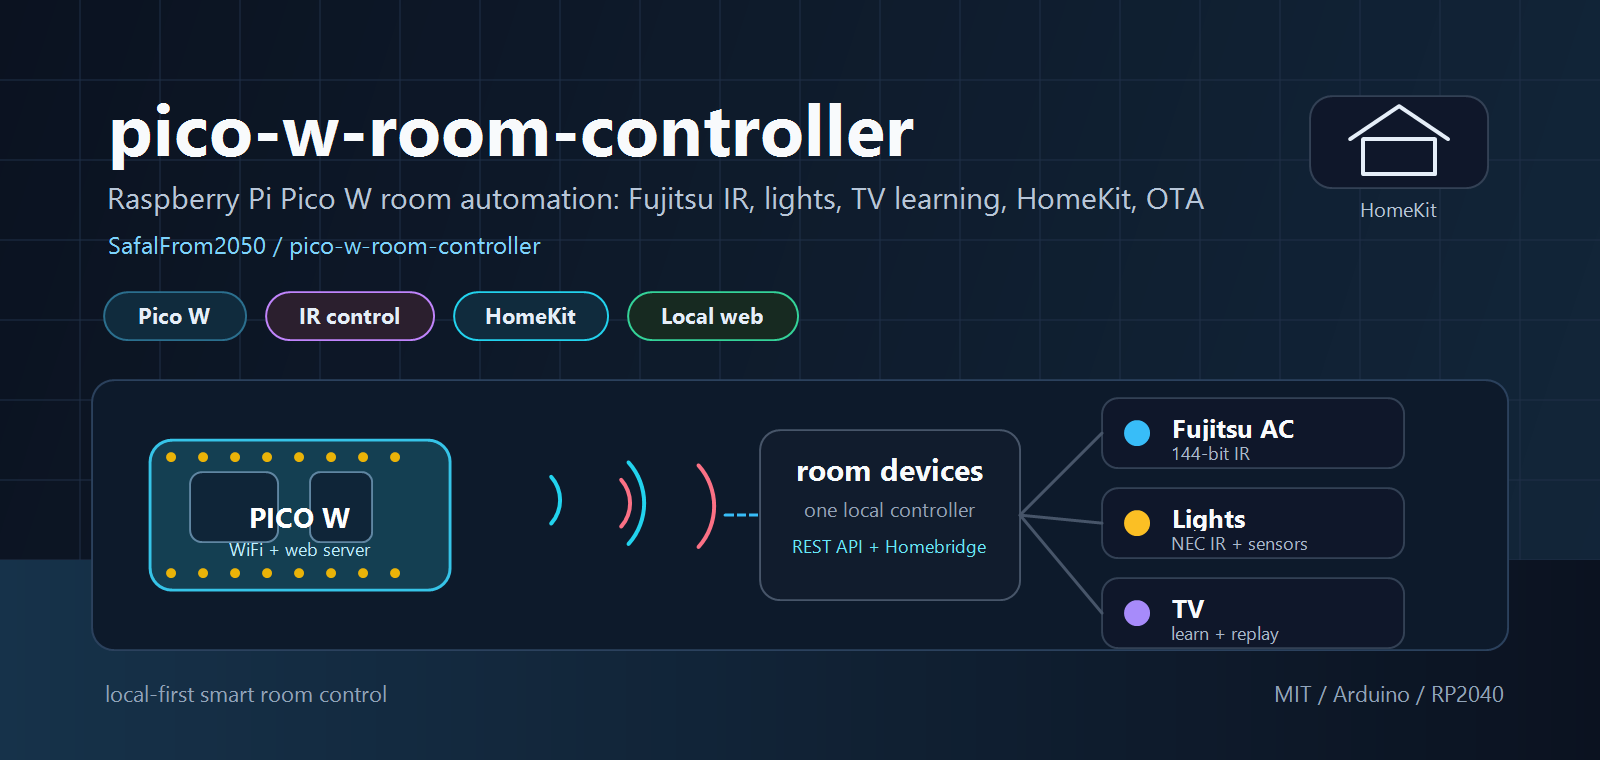
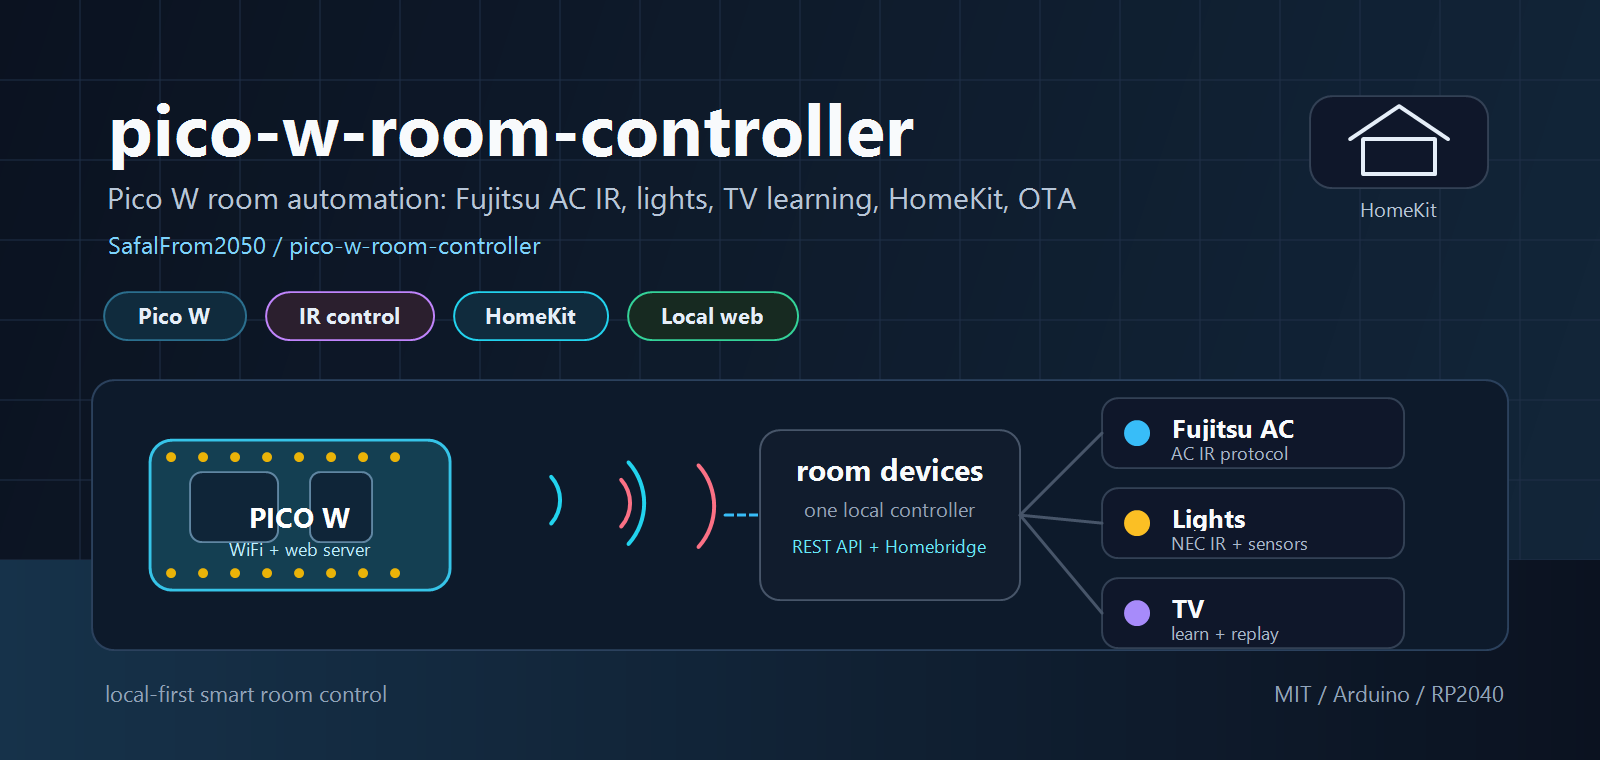
docs: avoid fixed Fujitsu IR bit-length claim

Changed region(s): [[0.0625, 0.2421, 0.75, 0.3026], [0.7188, 0.575, 0.8125, 0.6053]]

diff --git a/README.md b/README.md
@@ -1,5 +1,5 @@
 <p align="center">
-  <img src="docs/images/banner-clean.png" alt="pico-w-room-controller — Smart Fujitsu IR Blaster with Apple HomeKit, TV Learning, and Light Control" width="100%"/>
+  <img src="docs/images/banner-clean.png" alt="pico-w-room-controller — Smart Fujitsu AC IR controller with Apple HomeKit, TV Learning, and Light Control" width="100%"/>
 </p>
 
 <h1 align="center">pico-w-room-controller</h1>
@@ -10,7 +10,7 @@
 
 <p align="center">
   <img src="https://img.shields.io/badge/Platform-RP2040_(Pico_W)-A2235E?style=for-the-badge&logo=raspberrypi&logoColor=white" alt="Raspberry Pi Pico W"/>
-  <img src="https://img.shields.io/badge/Protocol-Fujitsu_IR_(144--bit)-E4405F?style=for-the-badge&logo=infrared&logoColor=white" alt="Fujitsu IR Protocol"/>
+  <img src="https://img.shields.io/badge/Protocol-Fujitsu_AC_IR-E4405F?style=for-the-badge&logo=infrared&logoColor=white" alt="Fujitsu AC IR Protocol"/>
   <img src="https://img.shields.io/badge/HomeKit-via_Homebridge-000000?style=for-the-badge&logo=apple&logoColor=white" alt="Apple HomeKit Integration"/>
   <img src="https://img.shields.io/badge/IDE-Arduino-00979D?style=for-the-badge&logo=arduino&logoColor=white" alt="Arduino IDE"/>
 </p>
@@ -28,13 +28,13 @@
 
 ## 📖 Overview
 
-**pico-w-room-controller** turns a **$6 Raspberry Pi Pico W** into a multi-device smart room controller. Originally built to control a **Fujitsu split-system air conditioner** via a **reverse-engineered 144-bit IR protocol**, the project has grown into a full room automation hub that also controls ceiling lights, learns TV remote codes, and serves a real-time web dashboard — all accessible through **Apple HomeKit** via Homebridge.
+**pico-w-room-controller** turns a **$6 Raspberry Pi Pico W** into a multi-device smart room controller. Originally built to control a **Fujitsu split-system air conditioner** via a **reverse-engineered Fujitsu AC IR protocol**, the project has grown into a full room automation hub that also controls ceiling lights, learns TV remote codes, and serves a real-time web dashboard — all accessible through **Apple HomeKit** via Homebridge.
 
 ### ✨ What It Does
 
 | Capability | Description |
 |-----------|-------------|
-| **Fujitsu AC Control** | Generates bit-perfect 144-bit IR commands (cool, heat, auto, power off, powerful mode) using a fully reverse-engineered protocol |
+| **Fujitsu AC Control** | Generates bit-perfect Fujitsu AC IR commands (cool, heat, auto, power off, powerful mode) using a reverse-engineered protocol |
 | **Ceiling Light Control** | Toggles normal and night modes via NEC IR protocol with photoresistor-based state detection |
 | **TV Remote Learning** | Captures IR codes from any TV remote (NEC, Samsung, Sony, RC5/6, PulseDistance) via an IR receiver, stores them in EEPROM, and replays on demand |
 | **Web Dashboard** | Glassmorphism dark-mode dashboard served directly from the Pico W for controlling all devices from a browser |
@@ -108,17 +108,17 @@ sequenceDiagram
     User->>HB: "Set AC to 22°C, cooling"
     HB->>Pico: GET /targetTemperature?value=22
     HB->>Pico: GET /targetHeatingCoolingState?value=2
-    Pico->>Pico: Build 18-byte Fujitsu IR frame
+    Pico->>Pico: Build Fujitsu AC IR frame
     Pico->>Pico: Calculate checksum (byte 17)
     Pico->>Pico: Encode to raw mark/space timings
-    Pico->>AC: 🔴 38kHz modulated IR (144 bits)
+    Pico->>AC: 🔴 38kHz modulated IR command
     Pico-->>HB: 200 OK
     HB-->>User: ✅ AC set to 22°C cooling
 ```
 
 ---
 
-## 🔬 Reverse-Engineered Fujitsu IR Protocol
+## 🔬 Reverse-Engineered Fujitsu AC IR Protocol
 
 A key technical achievement of this project is the **complete reverse-engineering of the Fujitsu AR-RFL5J remote protocol**. The protocol was decoded by capturing raw IR timings from the original remote and analyzing the bit patterns.
 
@@ -128,7 +128,7 @@ A key technical achievement of this project is the **complete reverse-engineerin
 
 | Feature | Short Code (OFF) | Long Code (ON/Settings) |
 |---------|:-----------------:|:-----------------------:|
-| **Length** | 7 bytes (56 bits) | 18 bytes (144 bits) |
+| **Length** | 7 bytes | 18 bytes |
 | **Carrier** | 38 kHz | 38 kHz |
 | **Bit Order** | LSB first | LSB first |
 | **Header** | 3324µs mark + 1574µs space | 3324µs mark + 1574µs space |
@@ -173,7 +173,7 @@ byte8 = ((temp_celsius - 8) / 2) << 4 | 0x01
 mindmap
   root((PicoW Room\nController))
     Fujitsu AC Control
-      Reverse-engineered 144-bit protocol
+      Reverse-engineered Fujitsu AC IR protocol
       Dynamic command generation
       Cool / Heat / Auto modes
       Powerful mode
@@ -499,7 +499,7 @@ The IR receiver is stopped during transmission (`IrReceiver.stop()`) and restart
 
 ### IR Transmission Strategy
 
-The RP2040 requires special handling for long IR signals. Direct pulse-distance encoding fails for 144-bit frames due to timing jitter. This project uses a **pre-built raw timing array** approach:
+The RP2040 requires special handling for long AC IR signals. Direct pulse-distance encoding was unreliable for the captured Fujitsu long frames due to timing jitter. This project uses a **pre-built raw timing array** approach:
 
 ```
 1. Build array:  [HDR_MARK, HDR_SPACE, BIT_MARK, BIT_SPACE, ..., STOP_MARK]
@@ -542,7 +542,7 @@ Thresholds are calibrated via the web dashboard sliders and persisted to EEPROM.
 | Decision | Rationale |
 |----------|-----------|
 | **Pico W over ESP32** | Dual-core M0+ provides stable IR timing; dedicated core for WiFi prevents jitter |
-| **Manual mark/space encoding** | `sendPulseDistanceWidthFromArray()` unreliable on RP2040 for 144-bit signals |
+| **Manual mark/space encoding** | `sendPulseDistanceWidthFromArray()` unreliable on RP2040 for the captured Fujitsu long frames |
 | **mDNS naming** | `fujitsu-ac.local` eliminates need for static IP configuration |
 | **WebThermostat protocol** | HTTP-based Homebridge plugin — simpler than implementing full HAP on RP2040 |
 | **ArduinoOTA updates** | Built-in OTA support uses Earle Philhower's core filesystem partition for wireless sketch updates |
@@ -556,7 +556,7 @@ The firmware includes debug endpoints accessible via HTTP:
 
 ```
 🔬 DEBUG ENDPOINTS:
-     GET /selftest?cmd=cool_on  →  Sends known-good 18-byte Cool ON frame
+     GET /selftest?cmd=cool_on  →  Sends known-good Cool ON frame
      GET /selftest?cmd=off      →  Sends known-good 7-byte Power OFF frame
      GET /raw?hex=146300...     →  Inject arbitrary hex bytes for protocol testing
      GET /ir/dump               →  Dump raw timing buffer of last received IR signal
@@ -586,7 +586,7 @@ pico-w-room-controller/
 
 ## 🗺️ Roadmap
 
-- [x] **Fujitsu AC Control** — Reverse-engineered 144-bit protocol with dynamic command generation
+- [x] **Fujitsu AC Control** — Reverse-engineered Fujitsu AC IR protocol with dynamic command generation
 - [x] **Apple HomeKit Integration** — Full Homebridge support via WebThermostat + HTTP-SWITCH
 - [x] **OTA Updates** — Flash firmware wirelessly via ArduinoOTA
 - [x] **Powerful Mode** — Short code `0x39` for Fujitsu max-power burst

diff --git a/FUJITSU_IR_PROTOCOL.md b/FUJITSU_IR_PROTOCOL.md
@@ -33,7 +33,7 @@ Byte:  0     1     2     3     4     5     6
 
 **Example (Power OFF):** `14 63 00 10 10 02 FD`
 
-## Power ON / Settings — Long Code (18 bytes / 144 bits)
+## Power ON / Settings — Long Code (18 bytes)
 
 ```
 Byte:  0     1     2     3     4     5     6     7     8     9
@@ -108,5 +108,5 @@ Power OFF:     14 63 00 10 10 02 FD
 
 - The IR signal requires **close range** with the V1221 transmitter module. A transistor driver circuit (NPN 2N2222 + 100Ω resistor) is recommended for room-distance operation.
 - Bytes 15–16 (`0x12`, `0x04`) appear constant across all captures and likely encode fan speed and swing direction defaults. Additional captures with different fan/swing settings would be needed to decode these.
-- The `sendRaw()` approach (pre-built timing array) is required on RP2040. Direct `sendPulseDistanceWidthFromArray()` does not work reliably for 144-bit signals.
+- The `sendRaw()` approach (pre-built timing array) is required on RP2040. Direct `sendPulseDistanceWidthFromArray()` does not work reliably for the captured long frames.
 - The IR receiver must be stopped (`IrReceiver.stop()`) during transmission to prevent timing jitter.